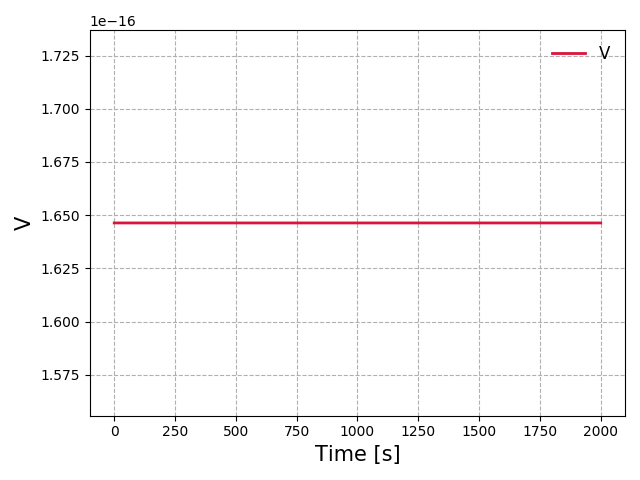
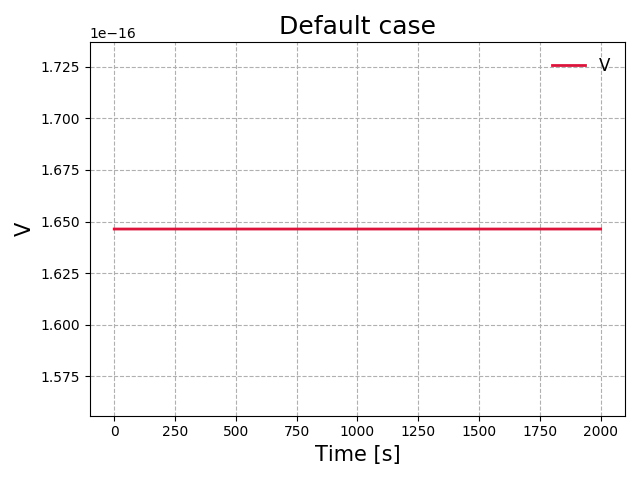
adding plots title

diff --git a/default/ode_model_simulation.py b/default/ode_model_simulation.py
@@ -350,6 +350,7 @@ class ODEMODEL:
     def GetPlot(self, time, tdq, color=None, label=None, xlabel=True, ylabel=True, figname=None):
     
         plt.plot(time, tdq, linestyle='-', linewidth=2, color=color, label=label)
+        plt.title(label="Default case", fontsize=18, color="black")
         plt.grid(linestyle='--',alpha=2)
         plt.legend(loc="best", prop={'size':12}, frameon=False)        
         plt.xlabel(xlabel, fontsize=15)

diff --git a/pcl-on/ode_model_simulation.py b/pcl-on/ode_model_simulation.py
@@ -370,6 +370,7 @@ class ODEMODEL:
 
     
         plt.plot(time, tdq, linestyle='-', linewidth=2, color=color, label=label)
+        plt.title(label="PCl-ON case", fontsize=18, color="black")
         plt.grid(linestyle='--',alpha=2)
         plt.legend(loc="best", prop={'size':12}, frameon=False)        
         plt.xlabel(xlabel, fontsize=15)
